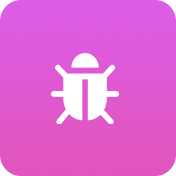
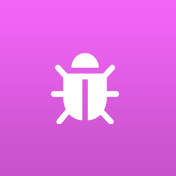
Add card items data

Changed region(s): [[0.0, 0.8807, 1.0, 1.0], [0.9091, 0.0, 1.0, 0.1136], [0.0, 0.0, 0.1136, 0.1136]]

diff --git a/src/components/PageCards.vue b/src/components/PageCards.vue
@@ -53,27 +53,27 @@ export default {
       cards: [
         {
           id: 1,
-          title: "Card 1",
-          subTitle: "Greyhound divisely hello coldly fonwderfully",
-          icon: "/images/bug.png",
+          title: "Text to command",
+          subTitle: "Translate text into programmatic commands.",
+          icon: "/images/command.png",
         },
         {
           id: 2,
-          title: "Card 2",
-          subTitle: "Greyhound divisely hello coldly fonwderfully",
+          title: "Bug fixer",
+          subTitle: "Find and fix bugs in source code.",
           icon: "/images/bug.png",
         },
         {
           id: 3,
-          title: "Card 3",
-          subTitle: "Greyhound divisely hello coldly fonwderfully",
-          icon: "/images/bug.png",
+          title: "Explain code",
+          subTitle: "Explain a complicated piece of code.",
+          icon: "/images/hashtag.png",
         },
         {
           id: 4,
-          title: "Card 4",
-          subTitle: "Greyhound divisely hello coldly fonwderfully",
-          icon: "/images/bug.png",
+          title: "SQL translate",
+          subTitle: "Translate natural language to SQL queries.",
+          icon: "/images/question_mark.png",
         },
       ],
     };

diff --git a/src/components/CardItem.vue b/src/components/CardItem.vue
@@ -1,8 +1,8 @@
 <template>
   <v-card outlined style="box-shadow: none" @click="$emit('click')">
     <v-list-item>
-      <v-avatar tile size="50" class="mr-2">
-        <img :src="icon" />
+      <v-avatar tile rounded size="50" class="mr-2">
+        <img :src="icon" class="rounded" />
       </v-avatar>
       <v-list-item-content>
         <v-list-item-title class="font-weight-bold" style="font-size: 16px">
